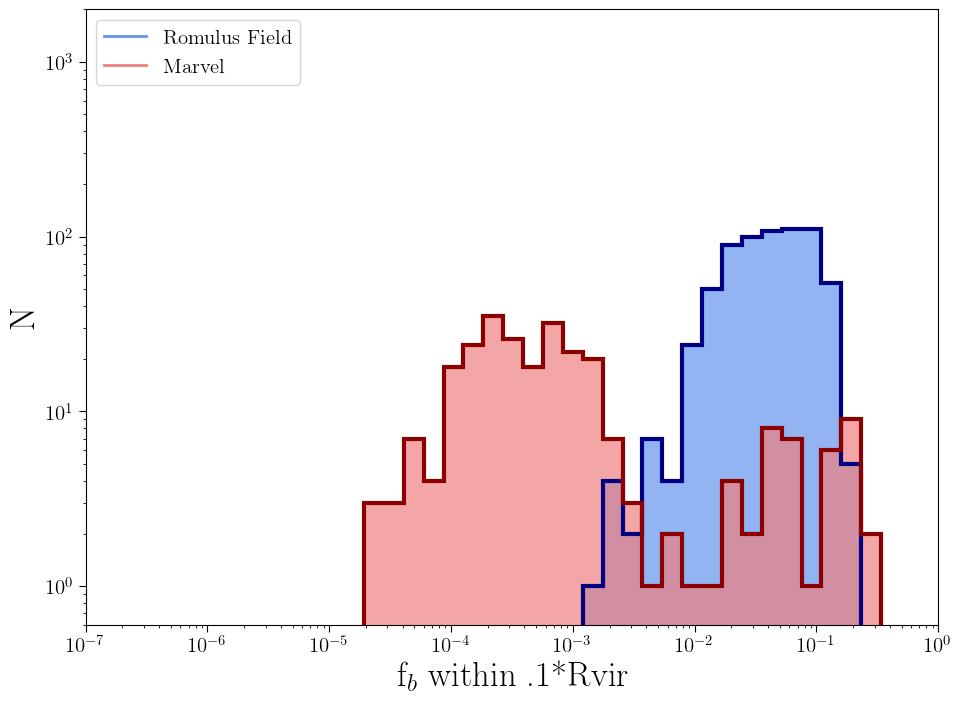
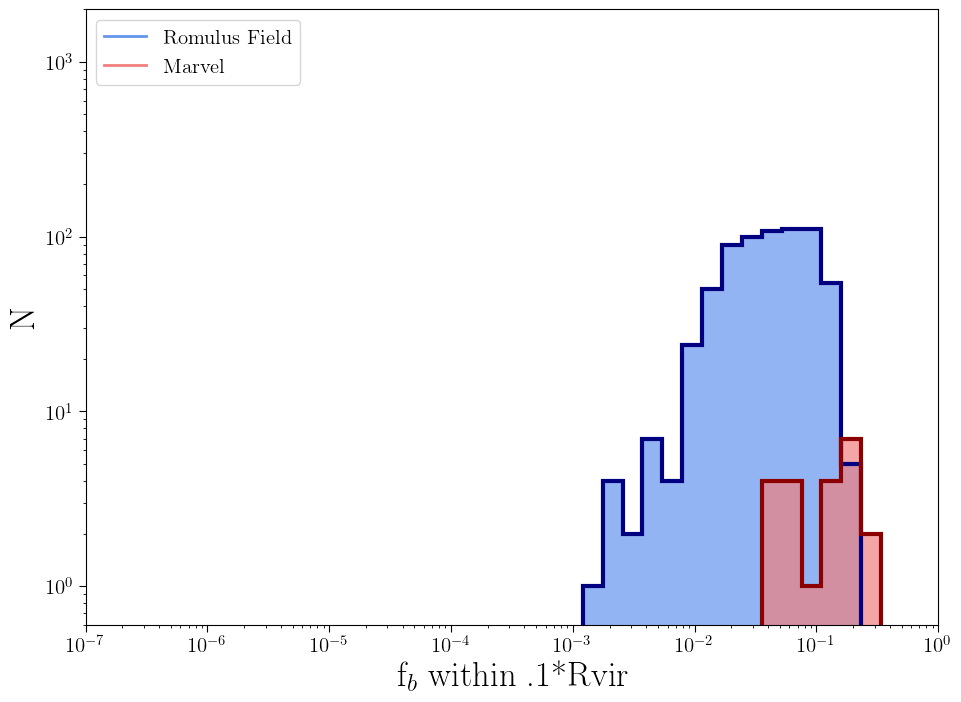
Updated MarvelVsRomField to only plot marvel halos with mstar>1e7

Changed region(s): [[0.3746, 0.4487, 0.8741, 0.8974], [0.8741, 0.5684, 0.9053, 0.6282]]

diff --git a/Code/MarvelVsRomField.Plot.py b/Code/MarvelVsRomField.Plot.py
@@ -25,8 +25,9 @@ MarBf,MarBf_Inner=[[],[]]
 for sim in Marvel:
     for h in Marvel[sim]['4096']['halos']:
         halo = Marvel[sim]['4096']['halos'][h]
-        MarBf.append((float(halo['Mstar'])+float(halo['Mgas']))/float(halo['Mvir']))
-        MarBf_Inner.append((float(halo['Mstar_Inner'])+float(halo['Mgas_Inner']))/float(halo['Mvir_Inner']))
+        if halo['Mstar']>1e7:
+            MarBf.append((float(halo['Mstar'])+float(halo['Mgas']))/float(halo['Mvir']))
+            MarBf_Inner.append((float(halo['Mstar_Inner'])+float(halo['Mgas_Inner']))/float(halo['Mvir_Inner']))
 
 
 f,ax = plt.subplots(1,1,figsize=(11,8))
